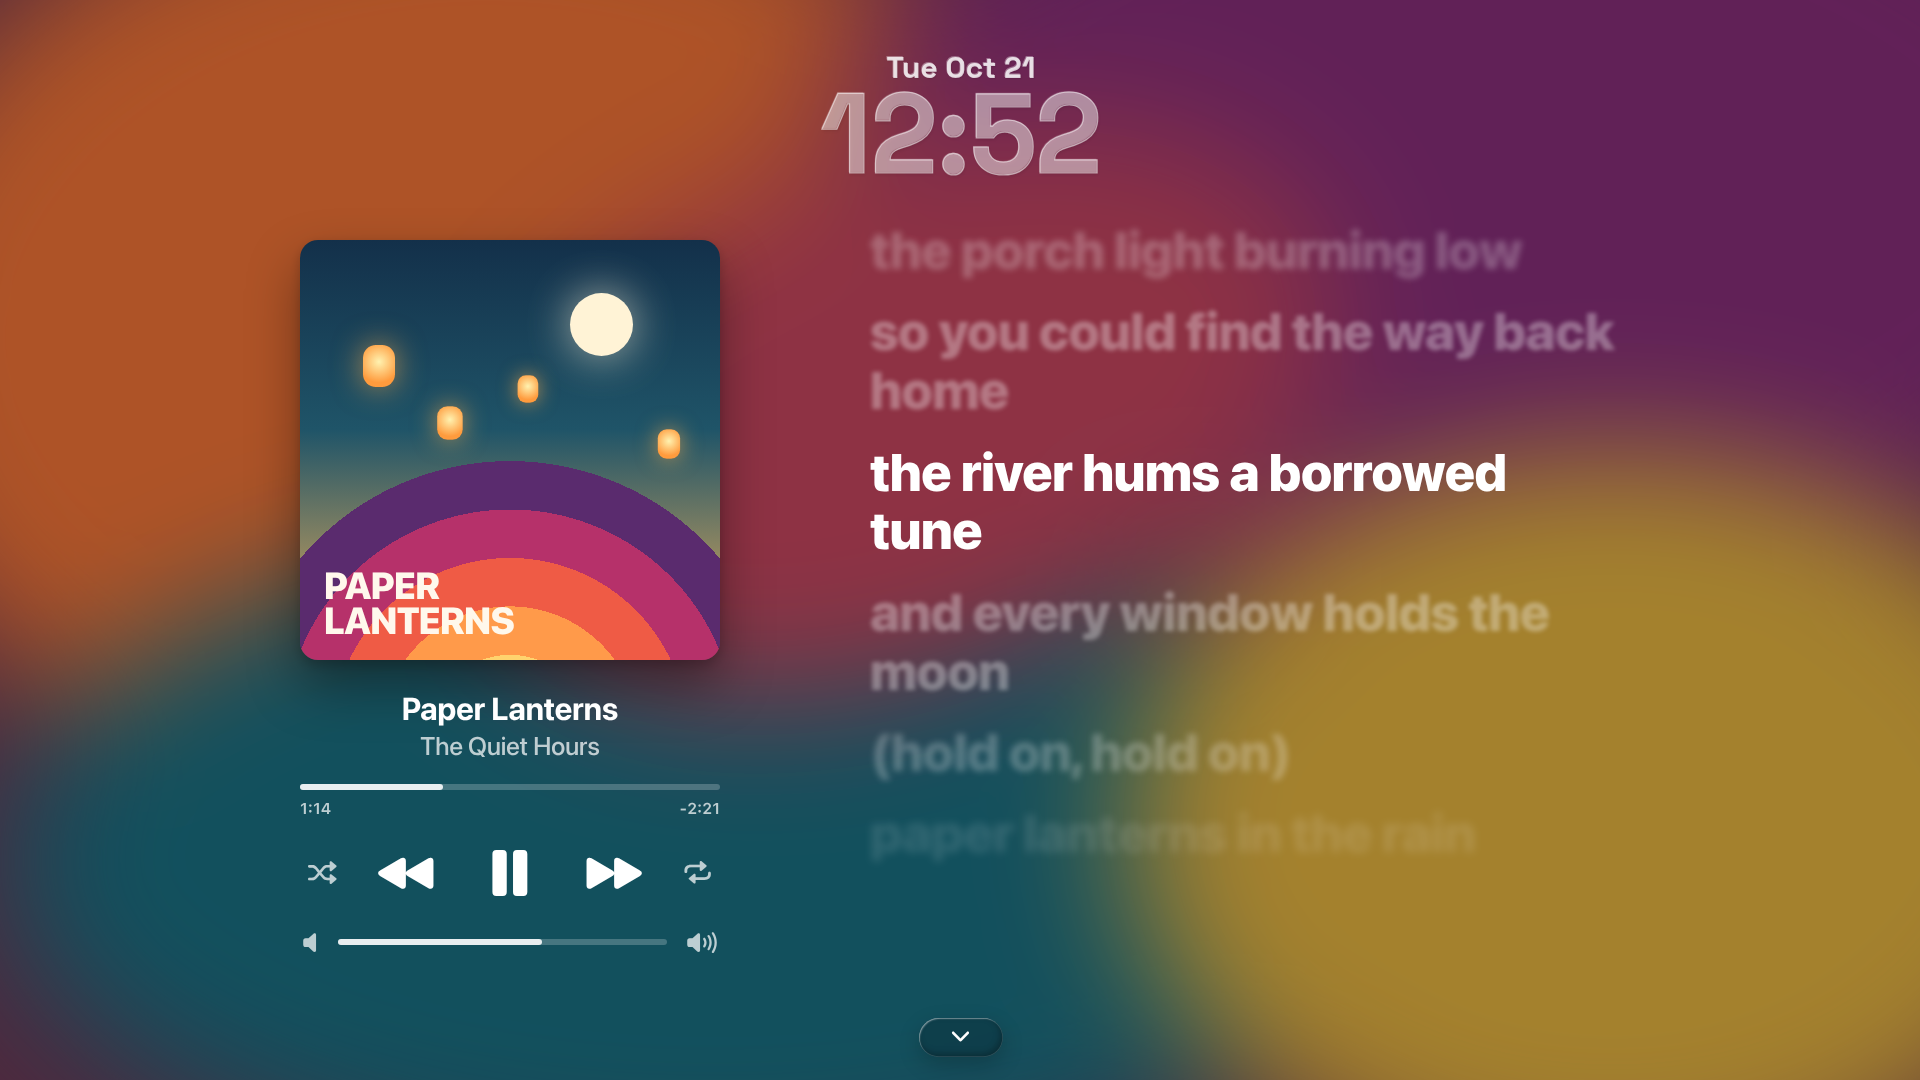
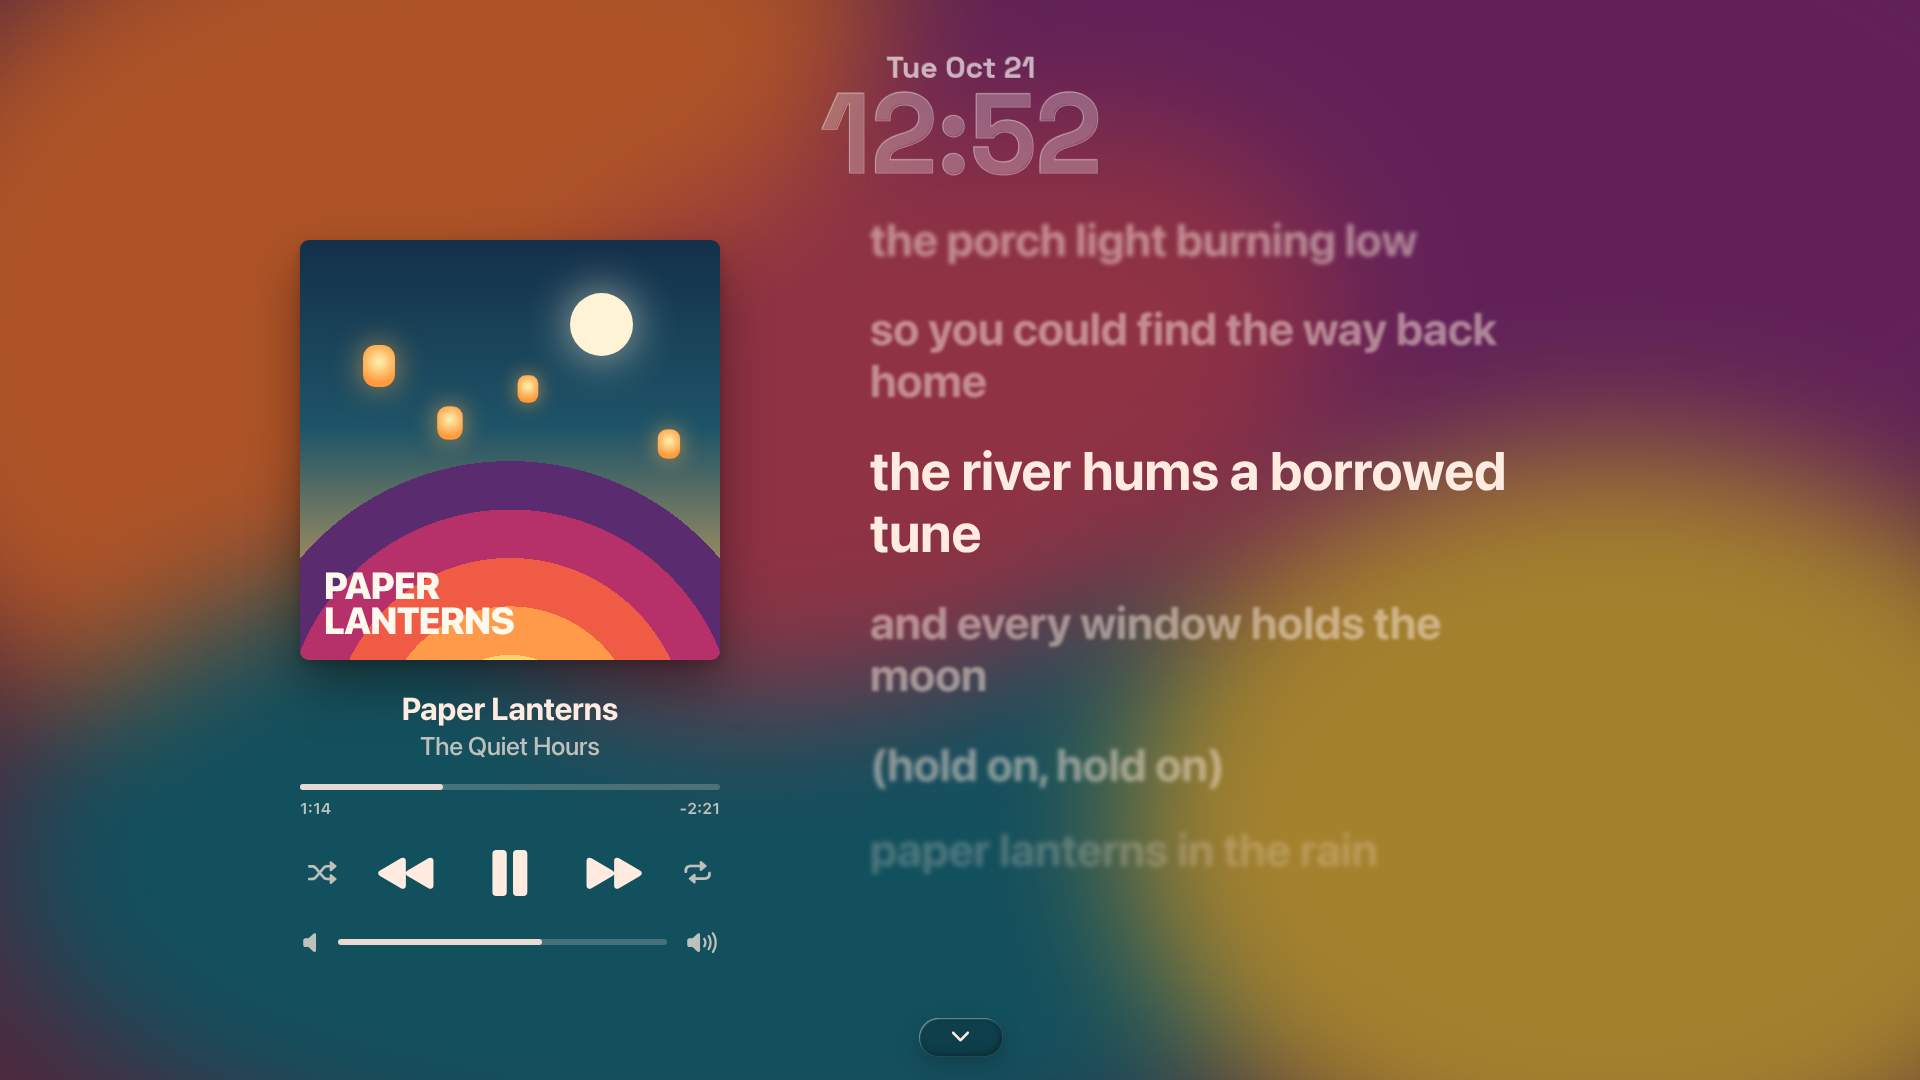
Now Playing plan, round 3: flatter cover, glass outline on hover, widget lyrics, clearer clock
User feedback:
- the cover's corners 12 (was 24);
- hovering the cover shows the widgets' dark glass card behind it as an outline
  (radius 24 = 12 + 12, the same card as the enter/exit pour), tilting with it;
- lyrics take the widget's styling: SF Pro Display Bold, the cover's ink
  (palette.js inkColour, run in the mock), unsung lines at 0.84 and 125/255;
  title, times, tracks and symbols share the ink;
- the clock is more translucent, as on the lock screen.

diff --git a/docs/nowplaying/mock/scene.html b/docs/nowplaying/mock/scene.html
@@ -8,6 +8,7 @@
 <html><head><meta charset="utf-8"><style>
 * { box-sizing: border-box; margin: 0; }
 html, body { width: 2560px; height: 1440px; overflow: hidden; background: #111; font-family: 'SF Pro Display', sans-serif; color: #fff; }
+#ui { color: rgb(var(--ink)); }
 #stage { position: absolute; inset: 0; overflow: hidden; }
 
 /* ---- the desktop (made up: wallpaper, two windows, the bar, the dock) ---- */
@@ -54,49 +55,50 @@ html, body { width: 2560px; height: 1440px; overflow: hidden; background: #111; 
 /* ---- the clock: the lock screen's glass clock (glassclock.js: Space Grotesk SemiBold, light
         milky glass, a crisp rim lit from the top left, the date above the time). Stand-in. ---- */
 #date, #clock { position: absolute; left: 0; right: 0; text-align: center; font-family: 'Space Grotesk'; font-weight: 600; }
-#date { top: 64px; font-size: 40px; color: rgba(255,255,255,.78); text-shadow: -1px -1px 0 rgba(255,255,255,.35), 1px 1px 2px rgba(0,0,0,.10); }
-#clock { top: 104px; font-size: 150px; line-height: 1; letter-spacing: -1px; color: rgba(255,255,255,.30);
-  -webkit-text-stroke: 1.5px rgba(255,255,255,.55); paint-order: stroke fill;
-  text-shadow: -1px -1px 1px rgba(255,255,255,.25), 1px 2px 4px rgba(0,0,0,.08); }
+#date { top: 64px; font-size: 40px; color: rgba(255,255,255,.55); text-shadow: -1px -1px 0 rgba(255,255,255,.22); }
+#clock { top: 104px; font-size: 150px; line-height: 1; letter-spacing: -1px; color: rgba(255,255,255,.10);
+  -webkit-text-stroke: 1.2px rgba(255,255,255,.40); paint-order: stroke fill;
+  text-shadow: -1px -1px 1px rgba(255,255,255,.18); }
 
 /* ---- the player column: everything centred on the cover's axis ---- */
 #col { position: absolute; top: 320px; width: 560px; text-align: center; }
 #card { position: relative; width: 560px; height: 560px; perspective: 1400px; }
 #tilt { position: absolute; inset: 0; transform-style: preserve-3d; }
-#cover { position: absolute; inset: 0; border-radius: 24px; overflow: hidden; box-shadow: 0 34px 70px rgba(0,0,0,.38), 0 6px 16px rgba(0,0,0,.18);
+#cover { position: absolute; inset: 0; border-radius: 12px; overflow: hidden; box-shadow: 0 34px 70px rgba(0,0,0,.38), 0 6px 16px rgba(0,0,0,.18);
   background:
     radial-gradient(circle at 50% 118%, #ffd36e 0 15%, #ff9a4a 15% 24%, #ef5b45 24% 33%, #b6316a 33% 42%, #5a2b6e 42% 51%, transparent 51%),
     linear-gradient(180deg, #13304a 0%, #1f5468 45%, #f0b25b 100%); }
 #cover .moon { position: absolute; left: 360px; top: 70px; width: 84px; height: 84px; border-radius: 50%; background: #fff3d6; box-shadow: 0 0 60px #fff3d6aa; }
 #cover .lantern { position: absolute; width: 42px; height: 56px; border-radius: 17px; background: radial-gradient(circle at 50% 40%, #fff2b0, #ff9b3d 70%); box-shadow: 0 0 40px #ffb04caa; }
 #cover .t { position: absolute; left: 32px; bottom: 28px; font: 800 50px/0.95 'SF Pro Display'; letter-spacing: -1px; color: #fff8ec; text-align: left; }
-#sheen { position: absolute; inset: 0; border-radius: 24px; mix-blend-mode: screen; pointer-events: none; }
-#cardglass { inset: -12px; border-radius: 36px; }   /* only while it pours: 24 + 12, concentric */
+#sheen { position: absolute; inset: 0; border-radius: 12px; mix-blend-mode: screen; pointer-events: none; }
+#cardglass { inset: -12px; border-radius: 24px; }   /* the pour, and the outline on hover: 12 + 12, the widgets' radius */
 
 #title { margin-top: 40px; font: 700 42px 'SF Pro Display'; }
-#artist { margin-top: 4px; font: 500 34px 'SF Pro Display'; color: rgba(255,255,255,.72); }
-/* the widget's progress (.tahoe-music-ink-white): a thin track, white 0.22, fill 0.88 */
-.track { position: relative; height: 8px; border-radius: 4px; background: rgba(255,255,255,.22); }
-.fill { position: absolute; left: 0; top: 0; bottom: 0; border-radius: 4px; background: rgba(255,255,255,.88); }
+#artist { margin-top: 4px; font: 500 34px 'SF Pro Display'; color: rgba(var(--ink),.72); }
+/* the widget's progress (Progress.setInk): a thin track, the ink at 0.22, fill at 0.88 */
+.track { position: relative; height: 8px; border-radius: 4px; background: rgba(var(--ink),.22); }
+.fill { position: absolute; left: 0; top: 0; bottom: 0; border-radius: 4px; background: rgba(var(--ink),.88); }
 #prog { margin-top: 30px; }
-#prog .times { display: flex; justify-content: space-between; font: 600 21px 'SF Pro Text'; color: rgba(255,255,255,.72); margin-top: 12px; }
+#prog .times { display: flex; justify-content: space-between; font: 600 21px 'SF Pro Text'; color: rgba(var(--ink),.72); margin-top: 12px; }
 /* the controls: SF Symbols floating on the swirl, no plate; hover = the widget's soft circle */
-.sym { font-family: 'SF Pro Text'; font-weight: 600; line-height: 1; color: #fff; display: grid; place-items: center; border-radius: 9999px; }
+.sym { font-family: 'SF Pro Text'; font-weight: 600; line-height: 1; color: rgb(var(--ink)); display: grid; place-items: center; border-radius: 9999px; }
 #ctl { display: flex; align-items: center; justify-content: center; gap: 40px; margin-top: 18px; height: 112px; }
-#ctl .small { font-size: 32px; width: 64px; height: 64px; color: rgba(255,255,255,.72); }
+#ctl .small { font-size: 32px; width: 64px; height: 64px; color: rgba(var(--ink),.72); }
 #ctl .skip { font-size: 52px; width: 96px; height: 96px; }
 #ctl .play { font-size: 72px; width: 112px; height: 112px; }
 #ctl .hover { background: rgba(255,255,255,.14); }
 #vol { display: flex; align-items: center; gap: 22px; margin-top: 22px; }
-#vol .sym { font-size: 28px; color: rgba(255,255,255,.72); }
+#vol .sym { font-size: 28px; color: rgba(var(--ink),.72); }
 #vol .track { flex: 1; }
 
-/* ---- lyrics: every line the same size (the reference); sung line white, the rest dim, blurred ---- */
+/* ---- lyrics: the widget's styling (.tahoe-music-lyric: SF Pro Display Bold in the cover's ink;
+        the lines not sung at LINE_SCALE 0.84 and DIM 125/255), larger, with the reference's blur ---- */
 #lyrics { position: absolute; top: 0; bottom: 0; width: 1000px; }
-#lyrics p { position: absolute; left: 0; width: 1000px; font: 800 70px/1.12 'SF Pro Display'; letter-spacing: -.5px; }
+#lyrics p { position: absolute; left: 0; width: 1000px; font: 700 72px/1.15 'SF Pro Display'; transform-origin: 0 50%; }
 
 /* ---- the chevron: back to the desktop, a capsule of the widgets' dark glass ---- */
-#chev { left: 50%; bottom: 34px; width: 112px; height: 52px; margin-left: -56px; border-radius: 9999px; display: grid; place-items: center; font: 600 26px 'SF Pro Text'; }
+#chev { color: #fff; left: 50%; bottom: 34px; width: 112px; height: 52px; margin-left: -56px; border-radius: 9999px; display: grid; place-items: center; font: 600 26px 'SF Pro Text'; }
 
 .note { position: absolute; font: 600 24px 'SF Pro Text'; color: #fff; background: rgba(0,0,0,.6); padding: 8px 14px; border-radius: 12px; white-space: nowrap; }
 .note.margin { white-space: normal; width: 330px; }
@@ -145,6 +147,36 @@ const SYMBOLS = {
 };
 document.querySelectorAll('[data-s]').forEach(e => (e.textContent = String.fromCodePoint(SYMBOLS[e.dataset.s])));
 
+// the widget's text colour (palette.js inkColour, white ink): the cover's most colourful colour,
+// very light, with a little of its chroma. Same code as palette.js, over the cover's palette.
+const toLinear = c => c <= 0.04045 ? c / 12.92 : ((c + 0.055) / 1.055) ** 2.4;
+const toSrgb = c => c <= 0.0031308 ? 12.92 * c : 1.055 * Math.max(c, 0) ** (1 / 2.4) - 0.055;
+function rgbToLab([r, g, b]) {
+  [r, g, b] = [toLinear(r), toLinear(g), toLinear(b)];
+  const l = Math.cbrt(0.4122214708 * r + 0.5363325363 * g + 0.0514459929 * b);
+  const m = Math.cbrt(0.2119034982 * r + 0.6806995451 * g + 0.1073969566 * b);
+  const s = Math.cbrt(0.0883024619 * r + 0.2817188376 * g + 0.6299787005 * b);
+  return [0.2104542553 * l + 0.7936177850 * m - 0.0040720468 * s, 1.9779984951 * l - 2.4285922050 * m + 0.4505937099 * s, 0.0259040371 * l + 0.7827717662 * m - 0.8086757660 * s];
+}
+function labToRgb([L, a, b]) {
+  const l = (L + 0.3963377774 * a + 0.2158037573 * b) ** 3, m = (L - 0.1055613458 * a - 0.0638541728 * b) ** 3, s = (L - 0.0894841775 * a - 1.2914855480 * b) ** 3;
+  const clamp = v => Math.min(1, Math.max(0, toSrgb(v)));
+  return [clamp(4.0767416621 * l - 3.3077115913 * m + 0.2309699292 * s), clamp(-1.2684380046 * l + 2.6097574011 * m - 0.3413193965 * s), clamp(-0.0041960863 * l - 0.7034186147 * m + 1.7076147010 * s)];
+}
+function inkColour(colours, dark) {
+  const chroma = c => Math.hypot(c[1], c[2]);
+  const pick = colours.reduce((best, c) => chroma(c) > chroma(best) ? c : best);
+  const C = chroma(pick);
+  const [L, maxC] = dark ? [0.27, 0.06] : [0.96, 0.035];
+  if (C < 0.03) return labToRgb([L, 0, 0]);
+  const f = Math.min(C, maxC) / C;
+  return labToRgb([L, pick[1] * f, pick[2] * f]);
+}
+const hex = h => [1, 3, 5].map(i => parseInt(h.slice(i, i + 2), 16) / 255);
+const COVER = ['#e0743c', '#7b2f6e', '#1f6a78', '#d9b04a'].map(h => rgbToLab(hex(h)));   // the swirl's colours
+const INK = inkColour(COVER, false).map(v => Math.round(v * 255)).join(', ');
+document.documentElement.style.setProperty('--ink', INK);
+
 const q = new URLSearchParams(location.search);
 const num = (k, d) => q.has(k) ? parseFloat(q.get(k)) : d;
 const lyricsOn = num('lyrics', 1) > 0;
@@ -175,9 +207,9 @@ const ps = LINES.map((t, i) => {
   const p = document.createElement('p');
   const a = Math.abs(i - SUNG);
   p.textContent = t;
-  p.style.color = a === 0 ? '#fff' : `rgba(255,255,255,${a === 1 ? .34 : .26})`;
-  p.style.filter = a === 0 ? '' : `blur(${Math.min(6, 1.6 + a * 1.4)}px)`;
-  p.style.opacity = Math.max(0, 1 - Math.max(0, a - 2) * .5);
+  p.style.transform = a === 0 ? '' : 'scale(0.84)';
+  p.style.filter = a === 0 ? '' : `blur(${Math.min(5, 1 + a * 1.2)}px)`;
+  p.style.opacity = a === 0 ? 1 : (125 / 255) * Math.max(0, 1 - Math.max(0, a - 2) * .5);
   ly.appendChild(p);
   return p;
 });
@@ -199,7 +231,7 @@ const cg = document.getElementById('cardglass');
 const drop = document.getElementById('drop');
 cover.style.opacity = content;
 cover.style.transform = `scale(${0.94 + 0.06 * content})`;
-cg.style.opacity = card === 'glass' ? 1 - content * 0.6 : 0;
+cg.style.opacity = card === 'glass' ? 1 - content * 0.6 : (q.has('tilt') || q.get('hoverCover') === '1') ? 1 : 0;
 if (card === 'drop' || card === 'pour') {
   const cx = colLeft + COL / 2, cy = 320 + COL / 2;
   const s = card === 'drop' ? 120 : 440, r = card === 'drop' ? 60 : 110, dy = card === 'drop' ? -40 : -10;

diff --git a/docs/nowplaying/mock/compose.py b/docs/nowplaying/mock/compose.py
@@ -26,7 +26,7 @@ for i, im in enumerate((a, b)):
     c = im.crop(crop).resize((855, 950))
     sheet.paste(c, (70 + i * 925, 90))
 d = ImageDraw.Draw(sheet)
-d.text((70, 30), 'Cover tilt: the card leans toward the pointer (max 8° each axis), a sheen follows it', font=big, fill='white')
+d.text((70, 30), 'Hover: the widgets\' glass outline appears, the cover tilts toward the pointer (max 8°), a sheen follows', font=big, fill='white')
 d.text((70, 1048), 'pointer top left', font=small, fill=(200, 200, 205))
 d.text((995, 1048), 'pointer bottom right', font=small, fill=(200, 200, 205))
 sheet.save(out / 'tilt.png')

diff --git a/docs/NOWPLAYING_PLAN.md b/docs/NOWPLAYING_PLAN.md
@@ -13,6 +13,12 @@ Status: **plan only, nothing built.** Round 2 of the mockups (user, 2026-10-21):
 - the only other glass is the widgets' dark glass, matched exactly;
 - everything is centred.
 
+Round 3 (user, 2026-10-21):
+- the cover is less rounded (12);
+- hovering it shows the widgets' glass outline;
+- the lyrics take the cover's ink with the widget's own font styling;
+- the clock is more translucent, as on the lock screen.
+
 The questions at the end need answers before Phase 1.
 
 Mockups (made with HTML/CSS in `docs/nowplaying/mock/`, rendered by `render.sh`; the cover is
@@ -129,11 +135,15 @@ All sizes are logical px at 2560x1440. They scale with the monitor's height.
 
 ### The cover: by itself
 
-- **The cover.** 560 px, corners 24, a soft two-layer drop shadow, no glass and no frame.
-- **The glass card.** It exists only during the enter and exit animations: a drop of the widgets'
-  glass pours into a card 12 px larger than the cover (radius 36 = 24 + 12, concentric). The cover
-  fades in inside it, then the glass dissolves away and the cover is left on its own. The exit runs
-  this backwards.
+- **The cover.** 560 px, corners **12**, a soft two-layer drop shadow, no glass and no frame at rest.
+- **The glass card.** One card of the widgets' dark glass, 12 px larger than the cover all round,
+  radius **24** (12 + 12, concentric, and the widgets' own `RADIUS`). It shows in three places:
+  - **Enter:** a drop of it pours into the card; the cover fades in inside it, then the glass
+    dissolves and the cover is left on its own.
+  - **Exit:** the same backwards.
+  - **Hover:** the card fades in behind the cover as a Liquid Glass **outline** (150 ms,
+    `effects.fast`) and tilts with it (next section). It fades out when the pointer leaves, while
+    the cover springs back flat.
 
 ### The controls: floating SF Symbols
 
@@ -165,7 +175,7 @@ All sizes are logical px at 2560x1440. They scale with the monitor's height.
 
 The user's rule: any Liquid Glass here is the existing widgets' glass, in **dark mode**, and must
 match it exactly. The clock is the only exception (next section). Two things use it: the chevron
-capsule (112 × 52), and the drop and card of the enter and exit animations.
+capsule (112 × 52), and the cover's card (the enter and exit pour, and the hover outline).
 
 - **Same code.** These pieces are built from the widgets' own `glass.js`: the same Blur My Shell
   pipeline (`pipeline_glassbar_dock`), with the dark mode forced whatever the desktop's mode.
@@ -181,7 +191,7 @@ capsule (112 × 52), and the drop and card of the enter and exit animations.
 | Edge shadow | 0.30 over 0.20 of the band |
 | Drop shadow | 0.20 |
 | Blur | 18 |
-| Shape | capsule (chevron); radius 36 (the pouring card) |
+| Shape | capsule (chevron); radius 24 (the card: pour and hover outline) |
 
 - **The comparison** (Phase 5 gate). A headless shell shows a real dark Music widget and the
   screensaver's chevron and card over the same backdrop. A script crops matching regions (the
@@ -195,7 +205,7 @@ capsule (112 × 52), and the drop and card of the enter and exit animations.
 ### The 3D tilt on the cover
 
 - **Geometry.**
-  - The cover gets `rotation_angle_x/y` about its centre, at most **8°**
+  - The cover, with its glass outline behind it, gets `rotation_angle_x/y` about its centre, at most **8°**
     per axis toward the pointer.
   - It also gets `translation_z` +20 px and a drop shadow that moves away from the pointer.
   - The stage's own perspective gives the depth.
@@ -212,12 +222,17 @@ capsule (112 × 52), and the drop and card of the enter and exit animations.
 
 - **Source.** The same as the widget: a `.lrc` next to a local file, else lrclib.net (`mpris.js`
   `lyrics()`), looked up once per track after `LOOKUP_DELAY`. The lookup runs only while the view is open.
-- **Style** (the reference):
-  - Every line is the **same size**: SF Pro Display Heavy, 74 px at 1440p, left-aligned, wrapping.
-  - The sung line is white. Lines next to it are 34 % white, those further off 26 %.
-  - Lines away from the sung one are blurred by distance: 3 px, then 4.4 px, then 6 px. This is a
-    `Shell.BlurEffect` per visible line, about 7 lines, re-blurred only when the line changes.
-  - The sung line sits at about 42 % of the height.
+- **Style: the widget's own** (`.tahoe-music-lyric`, `LyricsView`), only larger:
+  - **Font.** SF Pro Display Bold (700), as in the widget, at 72 px for 1440p (the widget's 26 px scaled), left-aligned, wrapping.
+  - **Colour.** The cover's ink, exactly as the widget sets it (`MusicWidget._setInk` with
+    palette.js `inkColour`). On most covers that is a very light white tinted toward the cover's most
+    colourful colour; on pale covers it is the deep dark ink. The title, artist, times, tracks and
+    symbols take the same ink.
+  - **Unsung lines.** The widget's `LINE_SCALE` 0.84 and `DIM` 125/255, so the column never reflows.
+  - **Blur.** On top of that, as in the reference, lines away from the sung one blur by distance
+    (2.2, 3.4, then up to 5 px). This is a `Shell.BlurEffect` per visible line, about 7, re-blurred
+    only when the line changes.
+  - **Position.** The sung line sits a little under the cover's middle.
 - **Motion.** The widget's wave glide (`DRIFT_MS`, `STAGGER_MS`): each line drifts up a little
   after the one above it. Long gaps show three breathing dots (♪ in the widget).
 - **States.**
@@ -232,7 +247,8 @@ capsule (112 × 52), and the drop and card of the enter and exit animations.
 
 - **Code.** The lock screen's clock (`glassclock.js`), unchanged: Space Grotesk SemiBold, the
   subtler material A, **its own light glass** (not the widgets' dark glass), the date above the time,
-  as on the lock screen. Only its backdrop changes: a clone of the swirl layer instead of the lock
+  as on the lock screen. It is as translucent as there: the strokes are mostly the swirl seen
+  through, with a thin lit rim and very little milk. No extra fill or outline is added. Only its backdrop changes: a clone of the swirl layer instead of the lock
   background.
 - **Size and place.** The time at about 10 % of the height (150 px at 1440p; the lock screen uses
   12 %) with the date (40 px) above it, centred at the top.
@@ -304,7 +320,7 @@ moves with translation, scale, opacity and shader uniforms.
 | 0 | Snapshot taken, overlay up, modal pushed. The frame is identical to the desktop. |
 | 0–350 ms | Blur radius 0 → 48, brightness 1 → 0.88 (`effects.slow`, critically damped) |
 | 100 ms | A drop of the widgets' dark glass (64 px circle) appears at the cover's centre: tahoe-motion's `Drop` geometry (fall, stretch, spread) drives the glass card's rect and radius each frame |
-| 150–550 ms | The drop pours into a card 12 px larger than the cover; its corners relax to radius 36 (`spatial.slow`, the popup's elastic grow from 0.92) |
+| 150–550 ms | The drop pours into a card 12 px larger than the cover; its corners relax to radius 24 (`spatial.slow`, the popup's elastic grow from 0.92) |
 | 350–700 ms | The cover fades in inside the glass, scale 0.94 → 1 |
 | 600–900 ms | The glass dissolves (opacity to 0): the cover stands alone |
 | 200–1400 ms | Swirl `lm_amount` 0 → 1 (slow ease, so the gradient creeps over the blurred desktop) |
@@ -427,7 +443,7 @@ Each phase is one commit or more on `claude/music-screensaver-257249`, and each 
   - The pixel comparison with a real dark Music widget (§1): every region within 2/255, with the
     sheet and the numbers committed.
   - A test with SF Pro hidden from fontconfig: the SVG fallback appears.
-  - A scripted tilt sweep: pointer motion across the cover, then leave, recorded. It must stay in the tilt budget.
+  - A scripted tilt sweep: pointer motion across the cover, then leave, recorded. The glass outline must fade in and out with it, and the sweep must stay in the tilt budget.
 
 ### Phase 6: enter and exit animations
 - **Enter.** The snapshot, the blur spring, tahoe-motion's `Drop` geometry driving the widgets' dark glass card,
